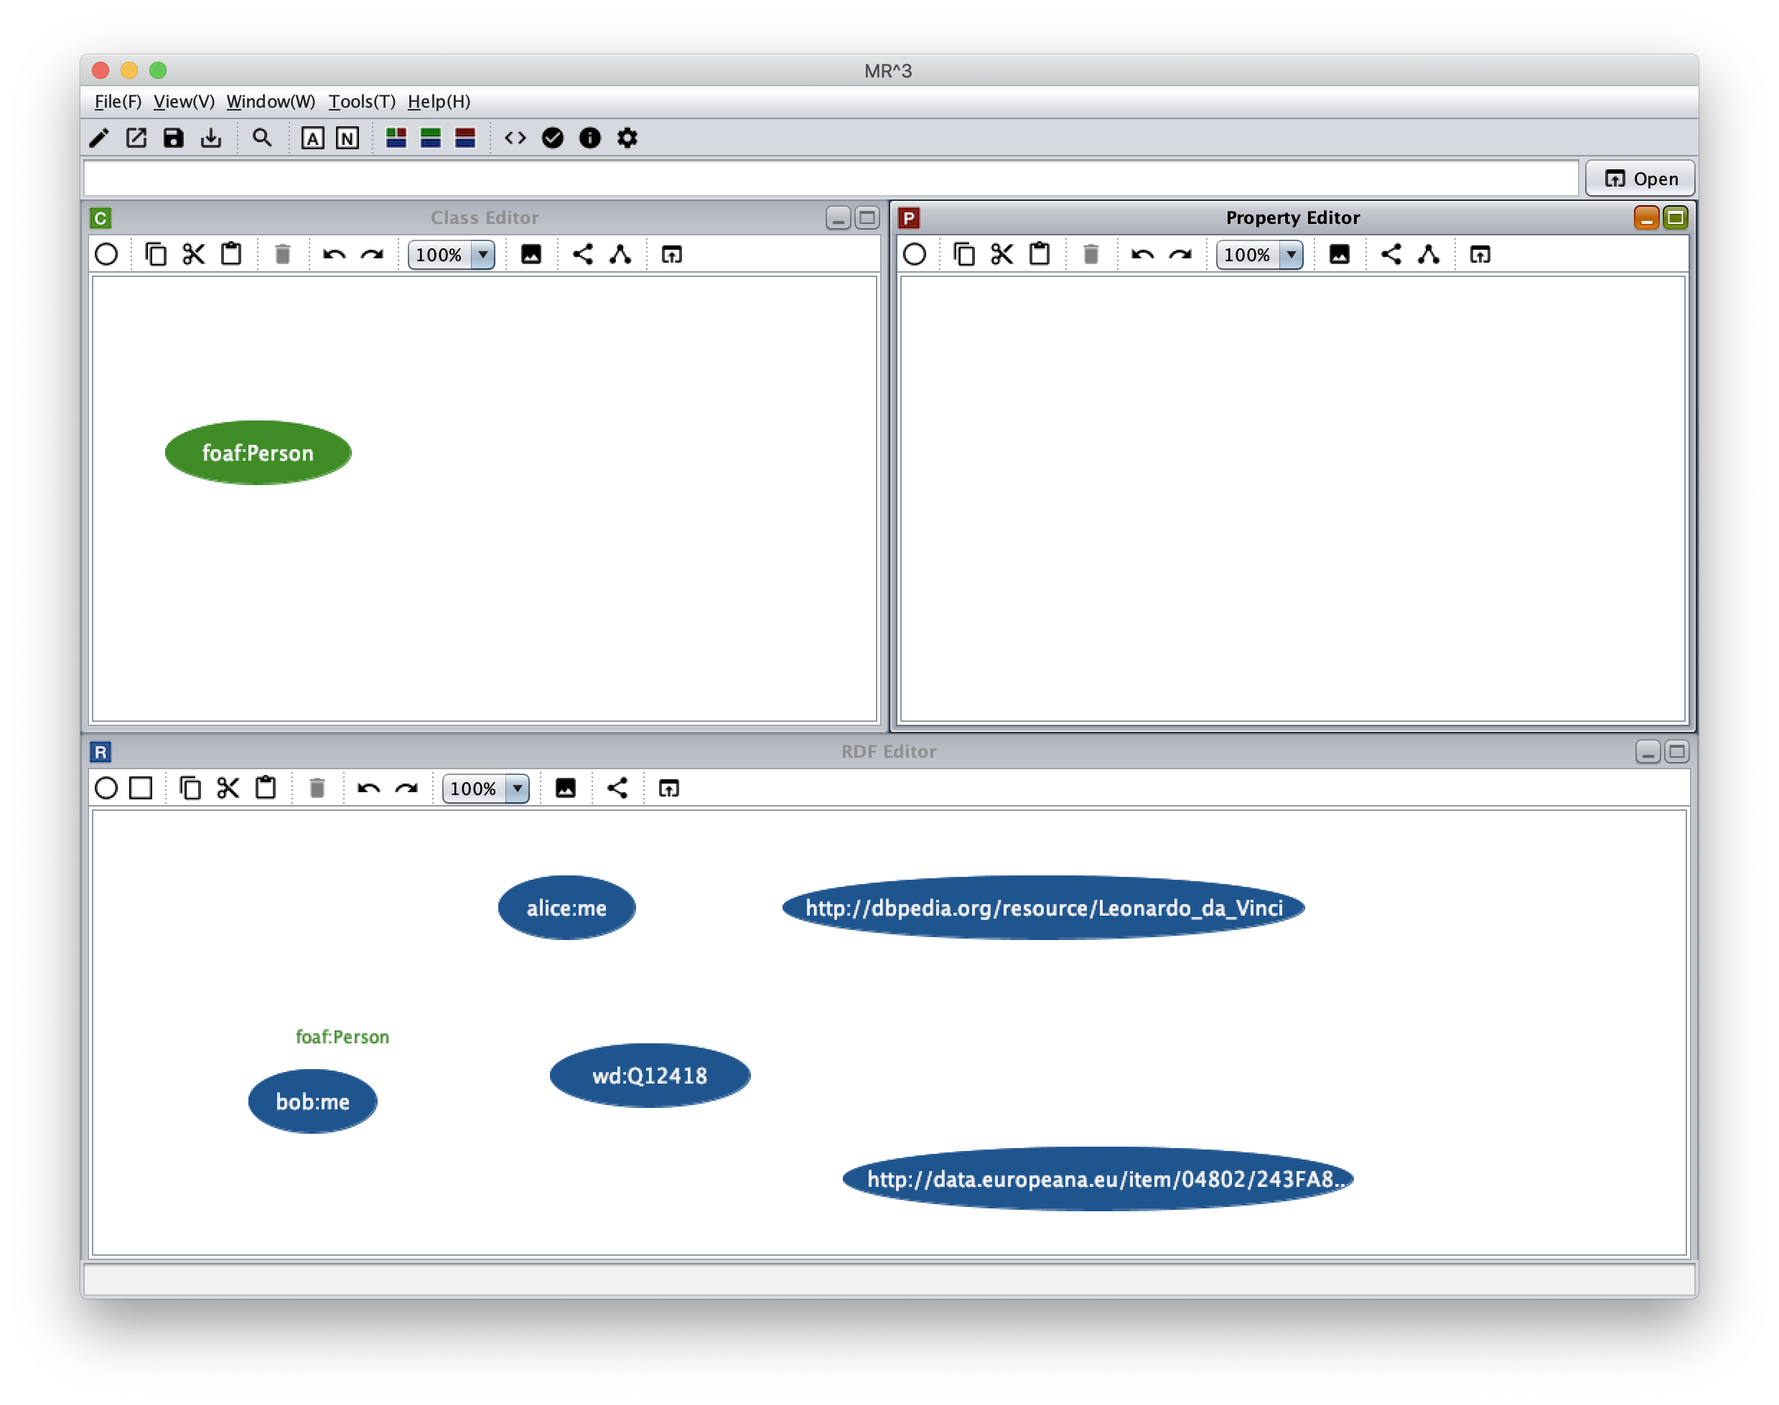
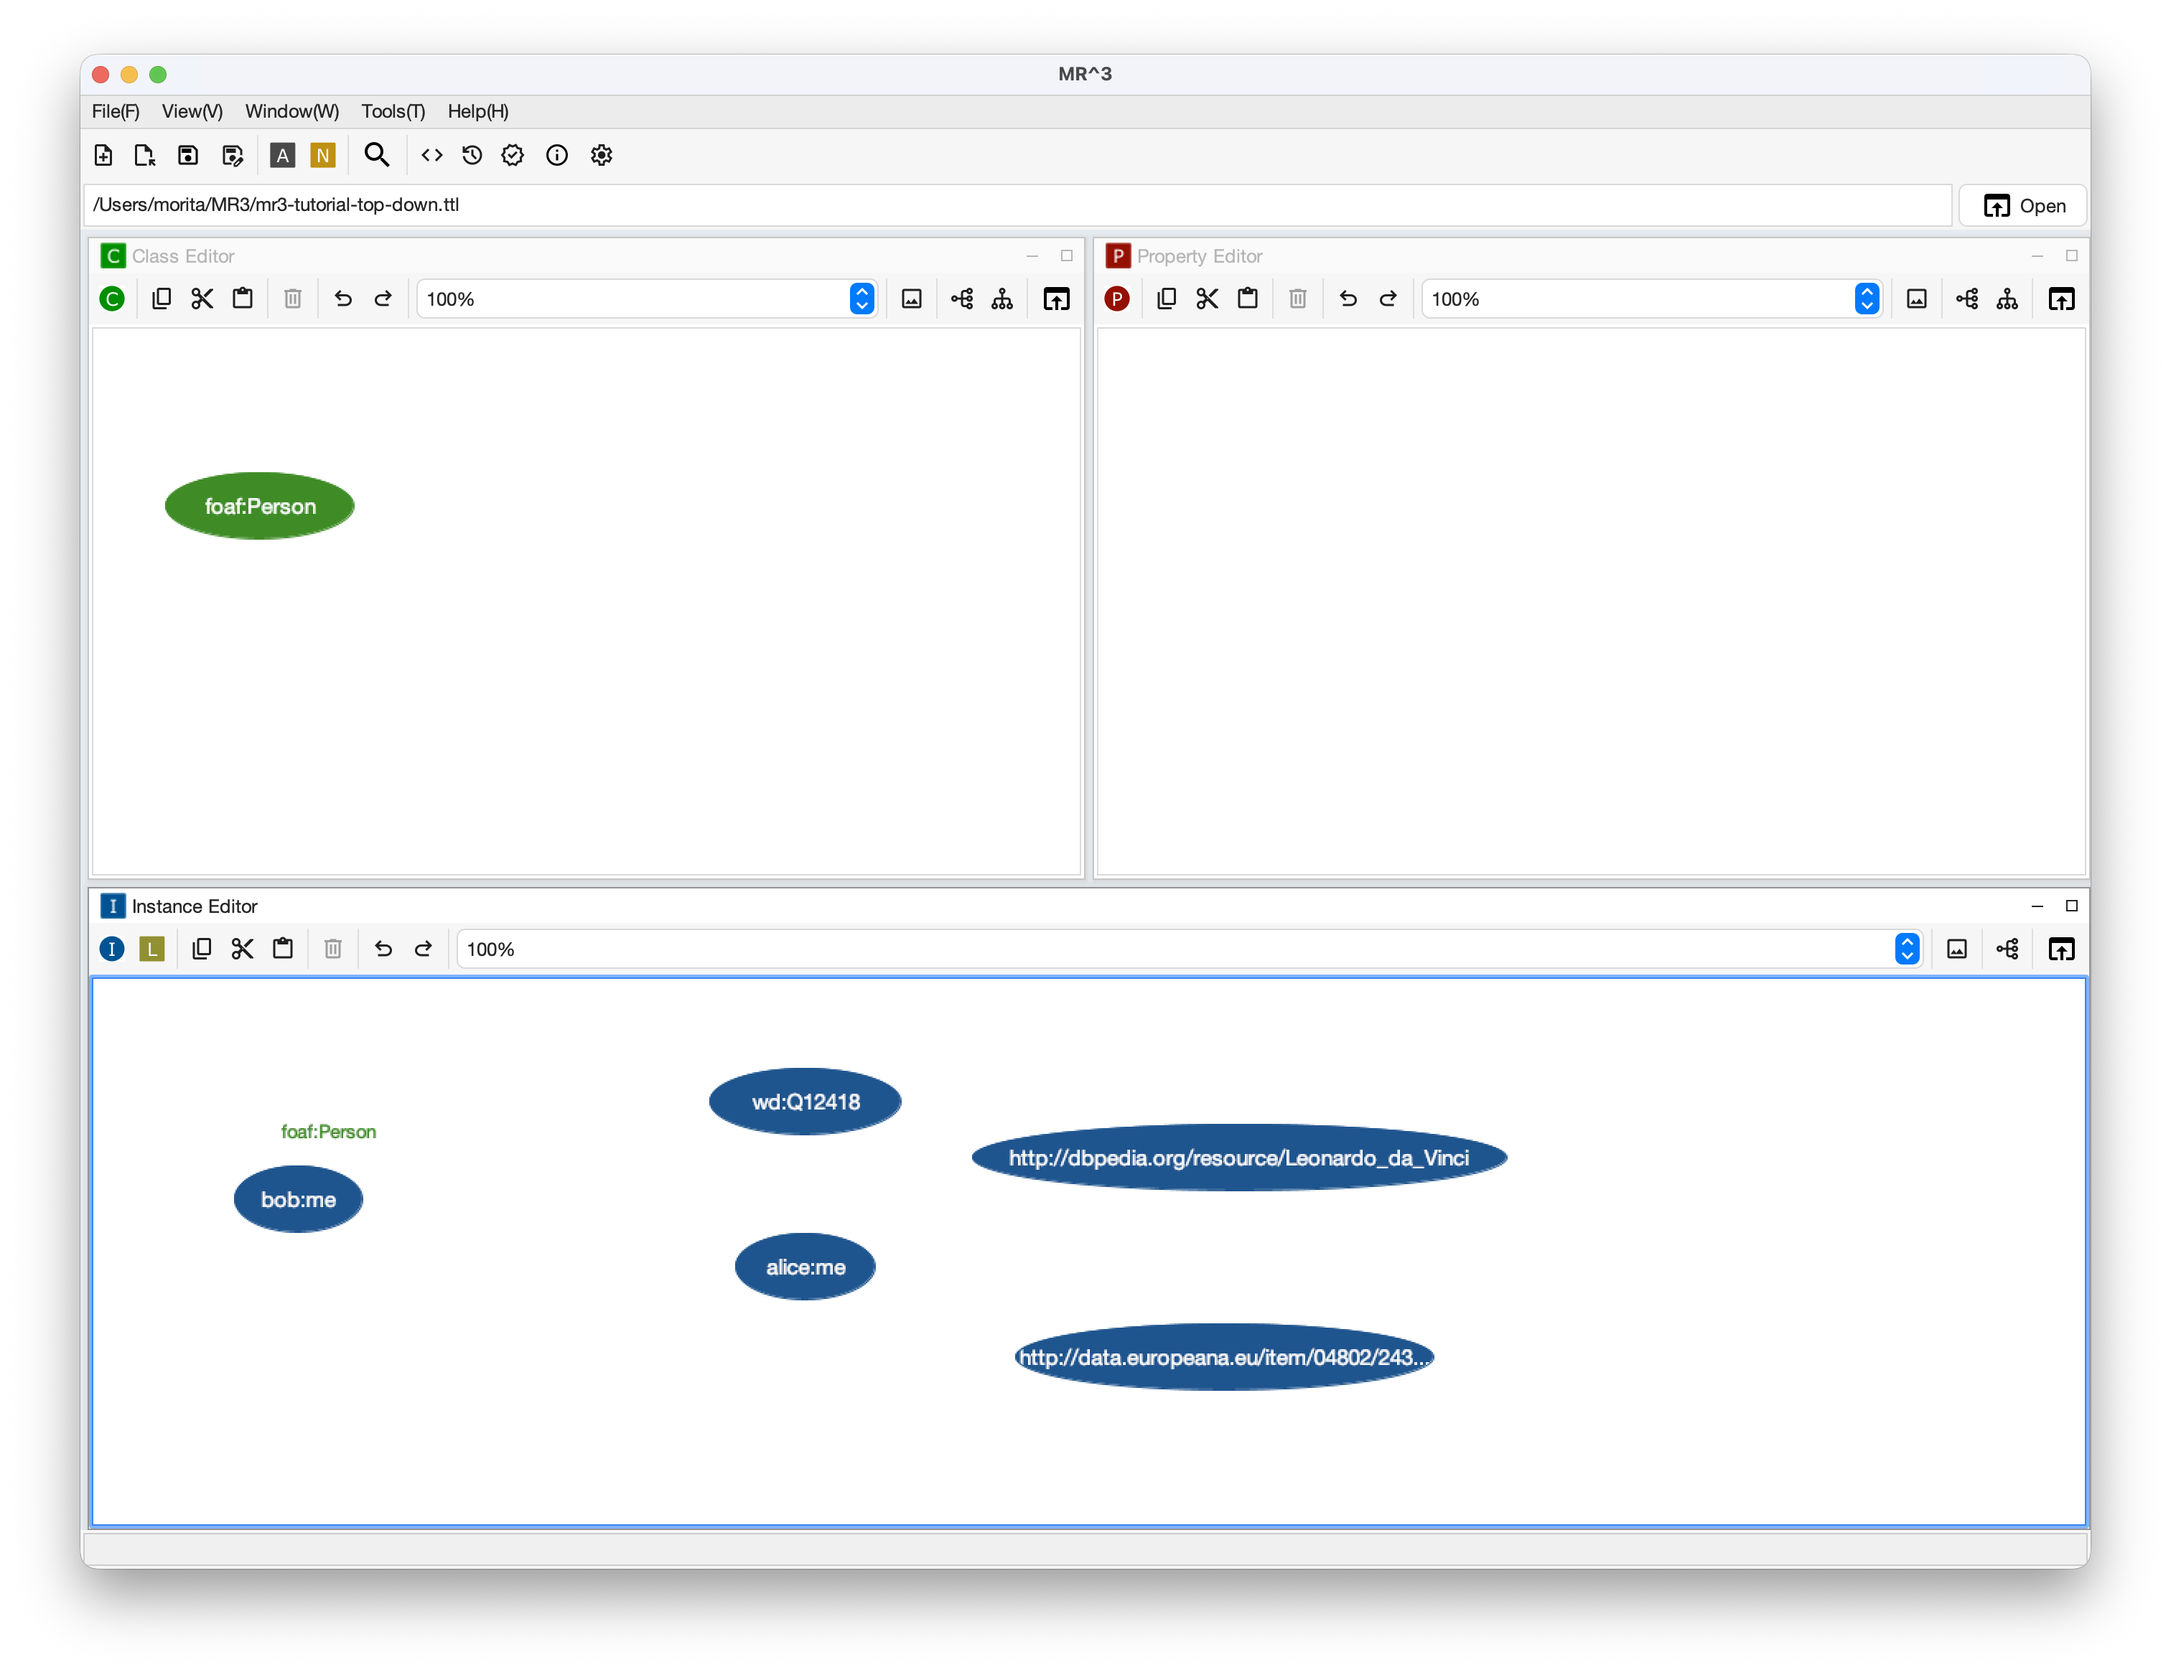
update tutorial

diff --git a/docs/source/tutorial.rst b/docs/source/tutorial.rst
@@ -16,7 +16,7 @@ There are two ways to build RDF(S) documents by using |MR3|. One is a top down m
 
 The other is a bottom up method. In the bottom up method. the users can create RDFS classes and properties when they build RDF contents by using RDF(S) contents management facilities.
 
-In this tutorial, we introduce how to build up the RDF(S) document shown below using top down and bottom up methods. You can also check how to build the RDF(S) document from `the videos page <http://mrcube.org/videos.html>`_ in the |MR3| web site. 
+In this tutorial, we introduce how to build up the RDF(S) document shown below using top down and bottom up methods. You can also check how to build the RDF(S) document from `the videos page <https://mr-3.github.io/videos>`_ in the |MR3| web site. 
 
 .. code-block:: turtle
 
@@ -133,7 +133,7 @@ In |MR3|, an RDF property can be selected from the properties in the **Property 
 ^^^^^^^^^^^^^^^^^^^^^^^^^^^^^^^^^^^^^^^^^^^^^^^^^^^^^^^^^^^^^^^^^^^^^^^^^^^^^^^^^^^^^^^^^^^
 In the following steps, we build RDF contents based on the RDFS class and the RDFS properties built by above steps.
 
-First, insert an RDF resource in the **RDF Editor**. When the users click a right mouse button in the **RDF Editor**, a popup menu is shown. :numref:`top-down-step4-1` shows a screenshot showing the popup menu.
+First, insert an RDF resource in the **Instance Editor**. When the users click a right mouse button in the **Instance Editor**, a popup menu is shown. :numref:`top-down-step4-1` shows a screenshot showing the popup menu.
 
 .. _top-down-step4-1:
 .. figure:: figures/top-down-step4-1.png
@@ -151,14 +151,14 @@ After selecting **[Insert RDF Resource]** menu, the **[Insert RDF Resource]** di
 
    Top down step 4-2
 
-In the same way, insert **alice:me**, **wd:Q12418**, **http://dbpedia.org/resource/Leonardo_da_Vinci**, **http://data.europeana.eu/item/04802/243FA8618938F4117025F17A8B813C5F9AA4D619** as RDF resources in the **RDF Editor**. Select empty as the type of resources.
+In the same way, insert **alice:me**, **wd:Q12418**, **http://dbpedia.org/resource/Leonardo_da_Vinci**, **http://data.europeana.eu/item/04802/243FA8618938F4117025F17A8B813C5F9AA4D619** as RDF resources in the **Instance Editor**. Select empty as the type of resources.
 
 ^^^^^^^^^^^^^^^^^^^^^^^^^^^^^^^^^^^^^^^^^^^^^^^^^^^^^^^^^^^^^^^^^^^^^^^^^^^^^^^^^^^^^^^^^^^
 5. Inserting RDF literals
 ^^^^^^^^^^^^^^^^^^^^^^^^^^^^^^^^^^^^^^^^^^^^^^^^^^^^^^^^^^^^^^^^^^^^^^^^^^^^^^^^^^^^^^^^^^^
-In this step, insert "1990-07-04"^^xsd:date と "Mona Lisa" RDF literals in the **RDF Editor**. 
+In this step, insert "1990-07-04"^^xsd:date と "Mona Lisa" RDF literals in the **Instance Editor**. 
 
-When the users click a right mouse button in the **RDF Editor** and select **[Insert Literal]** menu in the popup menu (:numref:`top-down-step5-1`), the **[Insert Literal]** dialog is shown. 
+When the users click a right mouse button in the **Instance Editor** and select **[Insert Literal]** menu in the popup menu (:numref:`top-down-step5-1`), the **[Insert Literal]** dialog is shown. 
 
 .. _top-down-step5-1:
 .. figure:: figures/top-down-step5-1.png
@@ -179,7 +179,7 @@ When the users click a right mouse button in the **RDF Editor** and select **[In
 ^^^^^^^^^^^^^^^^^^^^^^^^^^^^^^^^^^^^^^^^^^^^^^^^^^^^^^^^^^^^^^^^^^^^^^^^^^^^^^^^^^^^^^^^^^^
 6. Inserting RDF properties
 ^^^^^^^^^^^^^^^^^^^^^^^^^^^^^^^^^^^^^^^^^^^^^^^^^^^^^^^^^^^^^^^^^^^^^^^^^^^^^^^^^^^^^^^^^^^
-In this step, insert RDF properties in the **RDF Editor**. First, move the mouse cursor to the center of a source (subject) RDF resource. At that time, the shape of mouse cursor changes from arrow to cross. After that, drag the mouse cursor to the center of a target (object) RDF resource or RDF literal. When the shape of mouse cursor changes from arrow to cross, drop the mouse cursor. Then, two nodes are connected with an RDF property. If the users do not select one of the RDFS properties in the **Property Editor**, the RDF property becomes **mr3:nil** which is the default RDF property in |MR3|. If the users select one of the RDFS properties, the selected RDFS property is used for the RDF property.
+In this step, insert RDF properties in the **Instance Editor**. First, move the mouse cursor to the center of a source (subject) RDF resource. At that time, the shape of mouse cursor changes from arrow to cross. After that, drag the mouse cursor to the center of a target (object) RDF resource or RDF literal. When the shape of mouse cursor changes from arrow to cross, drop the mouse cursor. Then, two nodes are connected with an RDF property. If the users do not select one of the RDFS properties in the **Property Editor**, the RDF property becomes **mr3:nil** which is the default RDF property in |MR3|. If the users select one of the RDFS properties, the selected RDFS property is used for the RDF property.
 
 Here, connect **bob:me** RDF resource and **alice:me** RDF resource with **foaf:knows** RDF property. :numref:`top-down-step6-1` shows the screenshot of connecting these nodes.
 
@@ -192,7 +192,7 @@ In the same way，connect **bob:me** RDF resourcre and **"1990-07-04"** literal 
 
    Top down step 6-1
 
-In order to edit an RDF property, the **[Attribute Dialog]** is used. The **[Attribute Dialog]** is shown by clicking |attr-dialog| icon in the toolbar or selecting **[Attribute Dialog]** menu in the popup menu in the **RDF Editor**.
+In order to edit an RDF property, the **[Attribute Dialog]** is used. The **[Attribute Dialog]** is shown by clicking |attr-dialog| icon in the toolbar or selecting **[Attribute Dialog]** menu in the popup menu in the **Instance Editor**.
 
 :numref:`top-down-step6-2` shows a screenshot of the **[Attribute Dialog]** when the users select **foaf:knows** RDF property. An RDF property can be edited by selecting a prefix from the **[Prefix]** combobox, selecting an id from **[Property ID]** list, and selecting **[Apply]** button.
 
